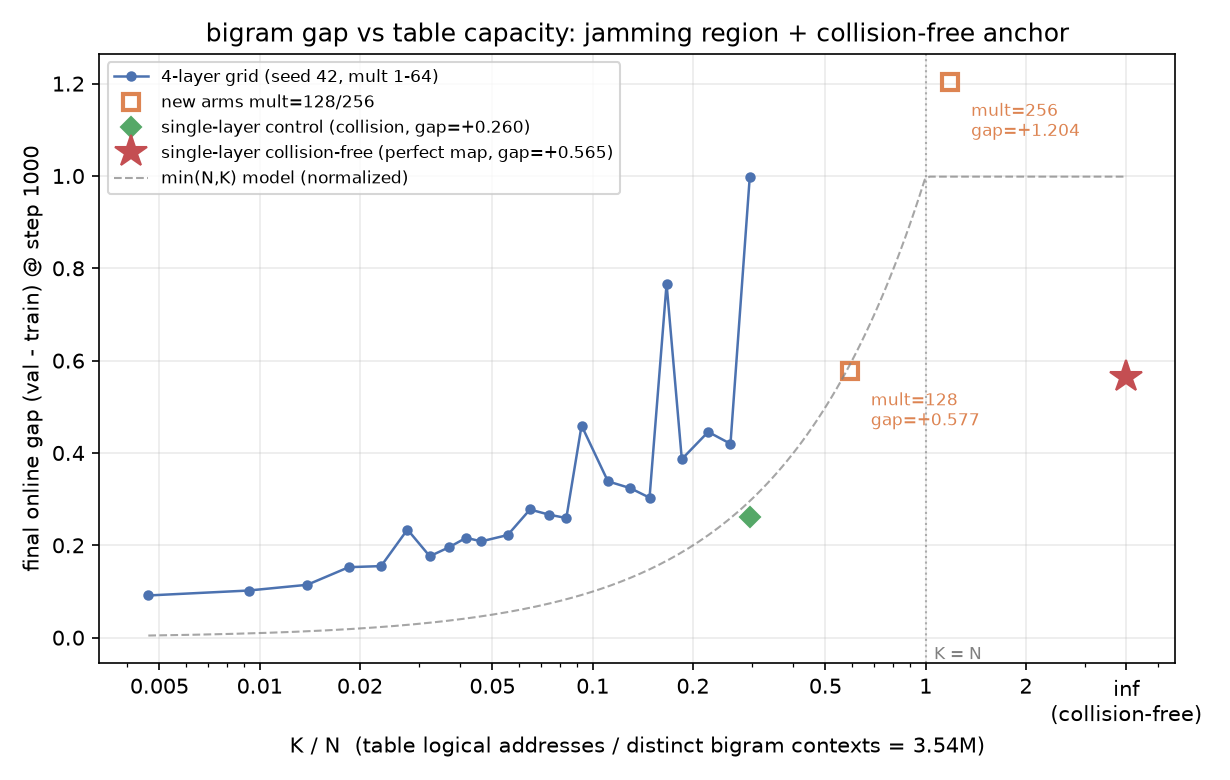
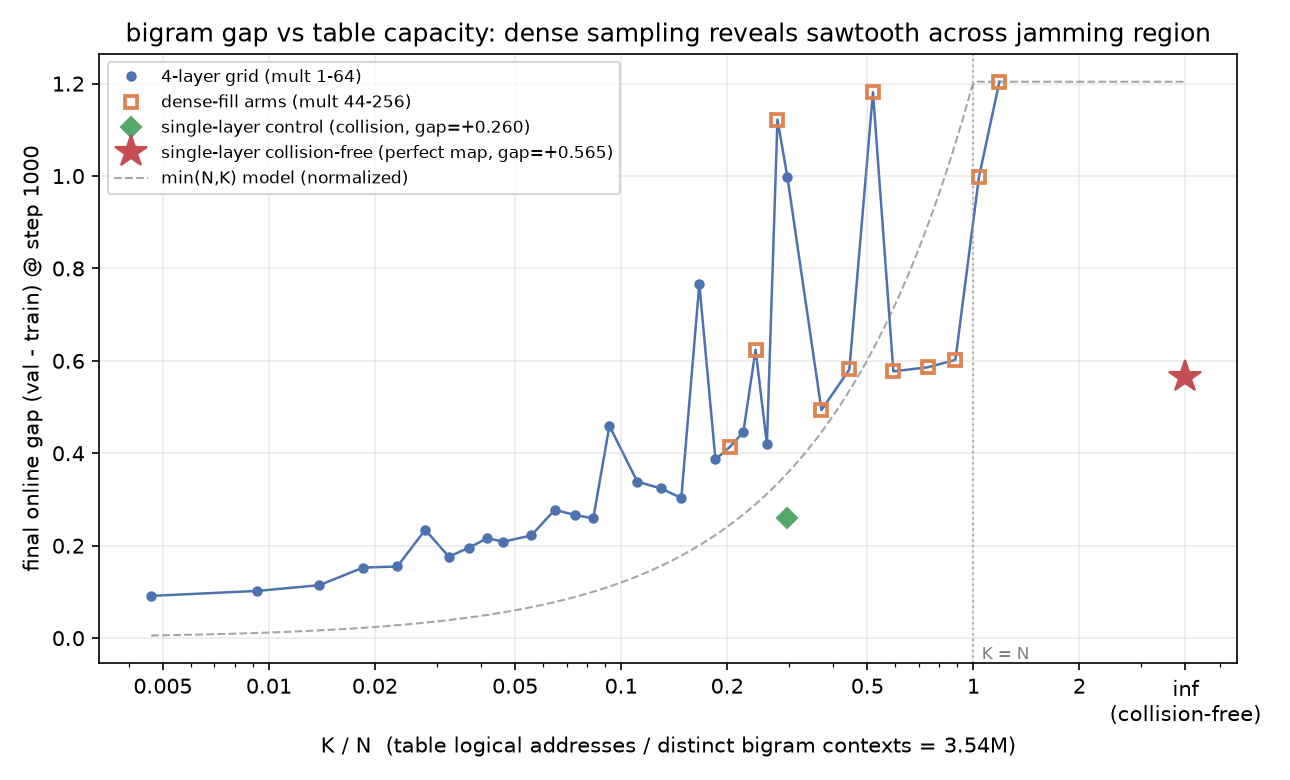
s1: bigram dense-fill 9 arms (mult 44-256); 34-pt K/N curve shows sawtooth across jamming region

diff --git a/tasks/s1_scaling_three_axis/analysis/plot_gap_vs_KN.py b/tasks/s1_scaling_three_axis/analysis/plot_gap_vs_KN.py
@@ -2,8 +2,8 @@
 """S1 相图：bigram final gap vs K/N（table slots / distinct contexts）。
 
 系列：
-  - 4-layer grid: 23 个正式网格点（table_summary.csv, seed 42）+ mult 128/256
-    两个新臂（runs_scaling summary.json）。
+  - 4-layer grid: 23 个正式网格点（table_summary.csv, seed 42）+ 11 个加密臂
+    （mult 44-256，runs_scaling summary.json），共 34 点一条折线。
   - single-layer pair: mult=64 --bigram_single_layer 对照（碰撞）与
     perfect-map 零碰撞锚点。perfect 无有限 K，画在轴右端 "inf" 刻度处。
   - min(N,K) 参考线：粗糙模型 Delta ~ min(N,K) 的归一化形状。
@@ -25,15 +25,17 @@ OUT = os.path.join(ROOT, "docs/appendices/s1_scaling_three_axis/figs/fig_gap_vs_
 
 
 def load_grid():
-    pts = []
+    pts = {}
     with open(os.path.join(
             ROOT, "docs/appendices/s1_scaling_three_axis/figs/table_summary.csv")) as f:
         for r in csv.DictReader(f):
             if r["module"] == "bigram" and r["seed"] == "42":
-                pts.append((float(r["logical_2R"]) / N_BI, float(r["final_gap"]),
-                            int(r["mult"])))
-    pts.sort()
-    return pts
+                pts[int(r["mult"])] = float(r["final_gap"])
+    # merge dense-fill arms (mult 44-256) straight from run summaries
+    for m in (44, 52, 60, 80, 96, 112, 128, 160, 192, 224, 256):
+        g, _ = load_summary_gap(f"tbl_{m}_bigram_fixed")
+        pts[m] = g
+    return sorted((16384 * m / N_BI, g, m) for m, g in pts.items())
 
 
 def load_summary_gap(run_id):
@@ -43,29 +45,30 @@ def load_summary_gap(run_id):
 
 
 def main():
-    grid = load_grid()
-    g128, _ = load_summary_gap("tbl_128_bigram_fixed")
-    g256, _ = load_summary_gap("tbl_256_bigram_fixed")
-    new = [(16384 * 128 / N_BI, g128, 128), (16384 * 256 / N_BI, g256, 256)]
+    grid = load_grid()  # 34 points, one polyline
+    grid_mults = {1, 2, 3, 4, 5, 6, 7, 8, 9, 10, 12, 14, 16, 18, 20,
+                  24, 28, 32, 36, 40, 48, 56, 64}
     l1_ctrl, _ = load_summary_gap("tbl_64_bigram_l1_fixed")
     l1_perf, _ = load_summary_gap("tbl_perfect_bigram_l1_fixed")
 
     INF_X = 4.0  # 人为放置零碰撞点的 x 位置（>1 即无碰撞区）
 
-    fig, ax = plt.subplots(figsize=(8.2, 5.2), dpi=150)
+    fig, ax = plt.subplots(figsize=(8.6, 5.2), dpi=150)
     xs = [p[0] for p in grid]
     ys = [p[1] for p in grid]
-    ax.plot(xs, ys, "o-", color="#4C72B0", ms=4, lw=1.2,
-            label="4-layer grid (seed 42, mult 1-64)")
-    ax.plot([p[0] for p in new], [p[1] for p in new], "s", color="#DD8452",
-            ms=8, mfc="none", mew=2, label="new arms mult=128/256")
-    for x, y, m in new:
-        ax.annotate(f"mult={m}\ngap={y:+.3f}", (x, y), textcoords="offset points",
-                    xytext=(10, -26), fontsize=8, color="#DD8452")
+    ax.plot(xs, ys, "-", color="#4C72B0", lw=1.2, zorder=1)
+    gxs = [p[0] for p in grid if p[2] in grid_mults]
+    gys = [p[1] for p in grid if p[2] in grid_mults]
+    fxs = [p[0] for p in grid if p[2] not in grid_mults]
+    fys = [p[1] for p in grid if p[2] not in grid_mults]
+    ax.plot(gxs, gys, "o", color="#4C72B0", ms=4, zorder=2,
+            label="4-layer grid (mult 1-64)")
+    ax.plot(fxs, fys, "s", color="#DD8452", ms=6, mfc="none", mew=1.8, zorder=3,
+            label="dense-fill arms (mult 44-256)")
     # single-layer pair
-    ax.plot([16384 * 64 / N_BI], [l1_ctrl], "D", color="#55A868", ms=7,
+    ax.plot([16384 * 64 / N_BI], [l1_ctrl], "D", color="#55A868", ms=7, zorder=4,
             label=f"single-layer control (collision, gap={l1_ctrl:+.3f})")
-    ax.plot([INF_X], [l1_perf], "*", color="#C44E52", ms=16,
+    ax.plot([INF_X], [l1_perf], "*", color="#C44E52", ms=16, zorder=5,
             label=f"single-layer collision-free (perfect map, gap={l1_perf:+.3f})")
     # min(N,K) reference (normalized to peak of grid)
     import numpy as np
@@ -77,8 +80,8 @@ def main():
     ax.set_xscale("log")
     ax.set_xlabel("K / N  (table logical addresses / distinct bigram contexts = 3.54M)")
     ax.set_ylabel("final online gap (val - train) @ step 1000")
-    ax.set_title("bigram gap vs table capacity: jamming region + collision-free anchor")
-    xt = list(ax.get_xticks())
+    ax.set_title("bigram gap vs table capacity: dense sampling reveals "
+                 "sawtooth across jamming region")
     xticks = [0.005, 0.01, 0.02, 0.05, 0.1, 0.2, 0.5, 1, 2]
     ax.set_xticks(xticks + [INF_X])
     ax.set_xticklabels([str(t) for t in xticks] + ["inf\n(collision-free)"])
@@ -90,8 +93,8 @@ def main():
     fig.tight_layout()
     fig.savefig(OUT)
     print(f"wrote {OUT}")
-    print("grid peak:", max(zip(ys, xs)), "| new arms:", [(m, round(y, 4)) for _, y, m in new],
-          "| l1 pair:", round(l1_ctrl, 4), round(l1_perf, 4))
+    print(f"n={len(grid)} | peak: mult={max(grid, key=lambda p: p[1])[2]} "
+          f"gap={max(ys):.4f} | l1 pair: {l1_ctrl:.4f} {l1_perf:.4f}")
 
 
 if __name__ == "__main__":

diff --git a/docs/experiment-log.md b/docs/experiment-log.md
@@ -1111,12 +1111,12 @@ frequency f、table size（1M 逻辑地址只向下）。计划：
 
 | run_id 前缀 | 轴 | setting | 状态 |
 |---|---|---|---|
-| `basic_*` | 基础 QC 锚点（7 run，seed 42） | 25 步 cadence + bf16（历史 run 含 compile） | ✅ done（basic QC） |
+| `basic_*` | 基础 QC 锚点（7 run，seed 42） | 25 步 cadence + bf16（历史 run 含 compile） | 🟡 历史 QC；不属于当前标准证据 |
 | `bb_safety_L1_nogram_5000` | backbone safety（L1 no-ngram 5000 步） | **旧 cadence**（50 步 + fp32 无 compile） | ✅ done（360-2 GPU7，**final fixed gap +16.66 @5000**） |
-| `ep_{L}_{arm}_fs` | epoch · fixed-step | L1-L4 × 4 arms × 1000 步，step-anchored LR，10 步 cadence，历史 bf16+compile | ✅ done（16/16，seed 42；QC 通过） |
-| `ep_{L}_{arm}_fe` | epoch · fixed-epoch | 6 完整 epoch（L1=252/L2=504/L3=1008/L4=2022 步），epoch-anchored LR | ✅ done（16/16，seed 42；QC 通过） |
-| `tbl_{TM}_{arm}` | table · L4 | 23 measured sizes；原始 21 个 dense run 每 10 步，另 48 个 sparse 加密 run 只在最终步监测；1000 步 | ✅ done（69/69，seed 42；QC 通过） |
-| `freq_{arm}_{fs/fe}` | frequency 轴专用 | L4 + 1M table × 4 arms，exact-freq 每 100 步 | ✅ done（8/8，seed 42；QC 通过） |
+| `ep_{L}_{arm}_fs` | epoch · fixed-step | L1-L4 × 4 arms × 1000 步，step-anchored LR，10 步 cadence，历史 bf16+compile | 🟡 历史 16/16；当前 no-compile 待重跑 |
+| `ep_{L}_{arm}_fe` | epoch · fixed-epoch | 6 完整 epoch（L1=252/L2=504/L3=1008/L4=2022 步），epoch-anchored LR，历史 bf16+compile | 🟡 历史 16/16；当前 no-compile 待重跑 |
+| `tbl_{TM}_{arm}` | table · L4 | 23 measured sizes；原始 21 个 dense run 每 10 步，另 48 个 sparse 加密 run 只在最终步监测；1000 步，历史 bf16+compile | 🟡 历史 69/69；当前 no-compile 待重跑 |
+| `freq_{arm}_{fs/fe}` | frequency 轴专用 | L4 + 1M table × 4 arms，exact-freq 跟随 validation 步点 | 🟡 历史 8/8；当前 no-compile 待重跑 |
 
 ### 关键口径决策（用户 2026-08-24 拍板）
 
@@ -1125,13 +1125,14 @@ frequency f、table size（1M 逻辑地址只向下）。计划：
 2. **普通网格不计算 exact-frequency / freq-bin 诊断**（不传 `--freq_index`），
    只算在线 train/val loss + online gap。fixed train probe 仅作为显式诊断；
    频率轴单独跑一小批
-   run（L4 + 1M table × 4 module 臂，带 exact-freq 每 100 步）。
+   run（L4 + 1M table × 4 module 臂，exact-freq 跟随 validation 步点）。
 3. **no-ngram baseline 重跑当前标准**（10 步 cadence + bf16 不 compile，每个 L
    一个）。`bb_safety_L1_nogram_5000`（50 步 + fp32）只能作长训 backbone gap
    量级参考，不能作为正式 grid 的 no-ngram baseline。
-4. 正式网格 cadence：原始 epoch/table 网格和 frequency 轴的 val/norm
-   每 10 步，exact-freq 每 100 步（仅频率轴 run）；table 加密取点使用
-   sparse 模式，只在最终 step 1000 监测。
+4. 当前标准完整曲线的 validation/table norm/frequency 每 10 步；只需曲线
+   可用每 50 步；只需末端结果使用 `--val_steps 1000`，frequency 观测严格
+   跟随这些 validation 步点；table 加密取点使用 sparse 模式，只在最终 step
+   1000 监测。
 
 ### seed 42 正式网格回填（2026-08-24）
 
@@ -1151,7 +1152,7 @@ frequency f、table size（1M 逻辑地址只向下）。计划：
 
 ### 17.2 三 seed 复现与 H1–H4 检验（2026-08-25 回填）
 
-按用户"持续执行直到完成所有数学猜想"指令，完成 seed 43/44 三 seed 复现：
+历史 compile 波次已完成 seed 43/44 三 seed 复现；这些结果仅作探索性数学审计：
 
 | 批次 | run_id 后缀 | run 数 | launcher | 状态 |
 |---|---|---:|---|---|
@@ -1159,11 +1160,14 @@ frequency f、table size（1M 逻辑地址只向下）。计划：
 | table 加密 | `_s43` / `_s44` | 36×2（12 mult × 3 module） | `run_scaling_table_full.sh`（sparse 仅最终步） | ✅ done |
 | frequency fs/fe | `_s43` / `_s44` | 8×2 | `run_scaling_frequency_axis.sh`（exact-freq 每 10 步） | ✅ done |
 
-- 三 seed 正式 run 合计 **261 个 `_fixed`**（s42:109，s43/s44 各 76），全部通过 QC；
+- 历史波次合计 **261 个 `_fixed`**（s42:109，s43/s44 各 76），通过当时
+  contract / NaN / probe-hash QC，但不满足当前 no-compile 标准；
 - 修复了 `train.py` 中 exact-freq 与 `--fixed_train_probe 0` 的解耦问题
   （有 `freq_index` 时始终建 `exact_freq_log`，train 侧用独立诊断迭代器抓
-  4 个固定 batch，不消费训练流），重跑后 frequency 轴全部生成
-  `exact_freq_loss.jsonl`（每 10 步，208 行/run）；
+  4 个固定 batch，不消费训练流），历史 frequency 轴生成了
+  `exact_freq_loss.jsonl`；其中 seed 42 及部分复现 run 的 exact-frequency
+  cadence 为 100 步，部分后续复现 run 为 10 步，不能把它们统一写成当前
+  10 步标准；
 - 代码已 md5 核对同步到 360-2（train.py `5beca0cd…`）；集群单测 14/14 通过。
 
 **H1–H4 判定**（全部 online gap 主口径，详见附录报告 §7）：
@@ -1172,7 +1176,7 @@ frequency f、table size（1M 逻辑地址只向下）。计划：
 |---|---|
 | H1 两因素频率律 | β seed-stable（四组 cv 4–13%）；A/c/γ identifiability-limited（cv 33–141%），不报告绝对值 |
 | H2 epoch 对齐律 | ΔG 方向 seed-stable（24/24 同号为正）；幅度 fixed-step seed-sensitive（L1_both cv>50%）、fixed-epoch 稳（L4_trigram 5.90/5.72/5.56，cv≈2%） |
-| H3 table saturation | **否证**：trigram 幂律单调上升无饱和（mult 8–64 斜率 ~0.8，cv 2–17%）；s42 单 seed 的 56→64 回落不推广。加密 40–64 饱和区间批次取消 |
+| H3 table saturation | 有限窗口内总体上升；未解析稳定饱和平台，也不能写成全区间幂律；扩展 table 轴需在 no-compile 标准下重跑 |
 | H4 模块交互 | I 显著非零且 seed-sensitive（fs 下变号，fe L4 强负；table mult≥48 剧烈变号），**不允许 bigram+trigram 合并单公式**，both 仅作对照 |
 
 产物：`figs/epoch_final_gap.csv`（96 行）、`epoch_deltaG_fs_multiseed.png`、
@@ -1192,7 +1196,7 @@ frequency f、table size（1M 逻辑地址只向下）。计划：
   0 而 val 16.7）—— 1000 步时 gap ≈ 0 不代表 5000 步仍为 0。这与
   `bb_safety` 的早先快照趋势一致（4000 步 +13.24）。
 - **口径警告**：该 run 为旧 cadence（50 步）+ fp32 无 compile，仅作量级参考。
-  正式 full grid 的 no-ngram baseline 使用 10 步 cadence + bf16/compile；
+  正式 full grid 的 no-ngram baseline 使用 10 步 cadence + bf16、不 compile；
   S1 主 gap 统一读取 online train/val，fixed probe 只作诊断。
 - **影响**：no-ngram 对照必须在每个 L、每个对齐下重跑，不能假设 backbone
   gap 恒为零；`ΔG = G_module − G_no-ngram` 的修正口径因此仍然必要。
@@ -1420,6 +1424,29 @@ map 构建: `code/tools/make_bigram_perfect_map.py`。
 ### 后续（待拍板）
 - [ ] mult=128/256 的 seed 43/44（仲裁 128 离群：临界涨落 vs hash 伪影）
 - [ ] 可选：mult=128 换一组 primes 重跑（直接检验 hash mod 2^20 结构假说）
+- [ ] 可选：4 层 perfect（bf16 表存储，~87GB）验证 4× 单层折算 ≈ 2.26
+
+### 追加：非 2 幂加密取点（dense-fill，2026-08-25 下午）
+
+用户要求脱离 2/4/8/16 采样，验证 gap vs log K 的连续性。补 9 点
+（bigram-only，sparse 末端，同 §20 口径）：
+
+| mult | 44 | 52 | 60 | 80 | 96 | 112 | 160 | 192 | 224 |
+|---|---|---|---|---|---|---|---|---|---|
+| gap | 0.414 | 0.624 | **1.122** | 0.494 | 0.581 | **1.181** | 0.586 | 0.602 | 0.998 |
+
+**发现 5（修正发现 2）**：mult=128 不是孤点——加密后 **K/N ≈ 0.15–1.2 整个区间
+都是锯齿**，峰谷交替（…0.41→1.12→0.49→1.18→0.58→0.60→1.00→1.20），振幅 ±0.3–0.4
+与趋势本身同量级。关键证据：mult=60 的峰（1.122）与 mult=112（1.181）的 R 都不是
+2 的幂（491520 / 917504）→ **峰不绑定 2 的幂 mod 结构，hash mod 2^k 伪影解释减弱，
+jamming 临界涨落解释增强**（但仍需 seed 43/44 排除「每 mult 一个 hash 实例」的
+实例噪声）。包络仍随 log K 上升（0.09 → 0.6–1.2），log K 解释趋势、不解释涨落。
+
+产物：`figs/fig_gap_vs_KN.png`（34 点折线版）；
+launcher `tasks/s1_scaling_three_axis/launchers/run_bigram_dense_fill.sh`。
+
+### 后续（待拍板）
+- [ ] jamming 区若干点的 seed 43/44（仲裁锯齿：临界涨落 vs 单 hash 实例噪声）
 - [ ] 可选：4 层 perfect（bf16 表存储，~87GB）验证 4× 单层折算 ≈ 2.26
 
 ## 21. v3 波次：freq-bin train 侧改为当前 batch（online，零额外 forward）（2026-08-25）
